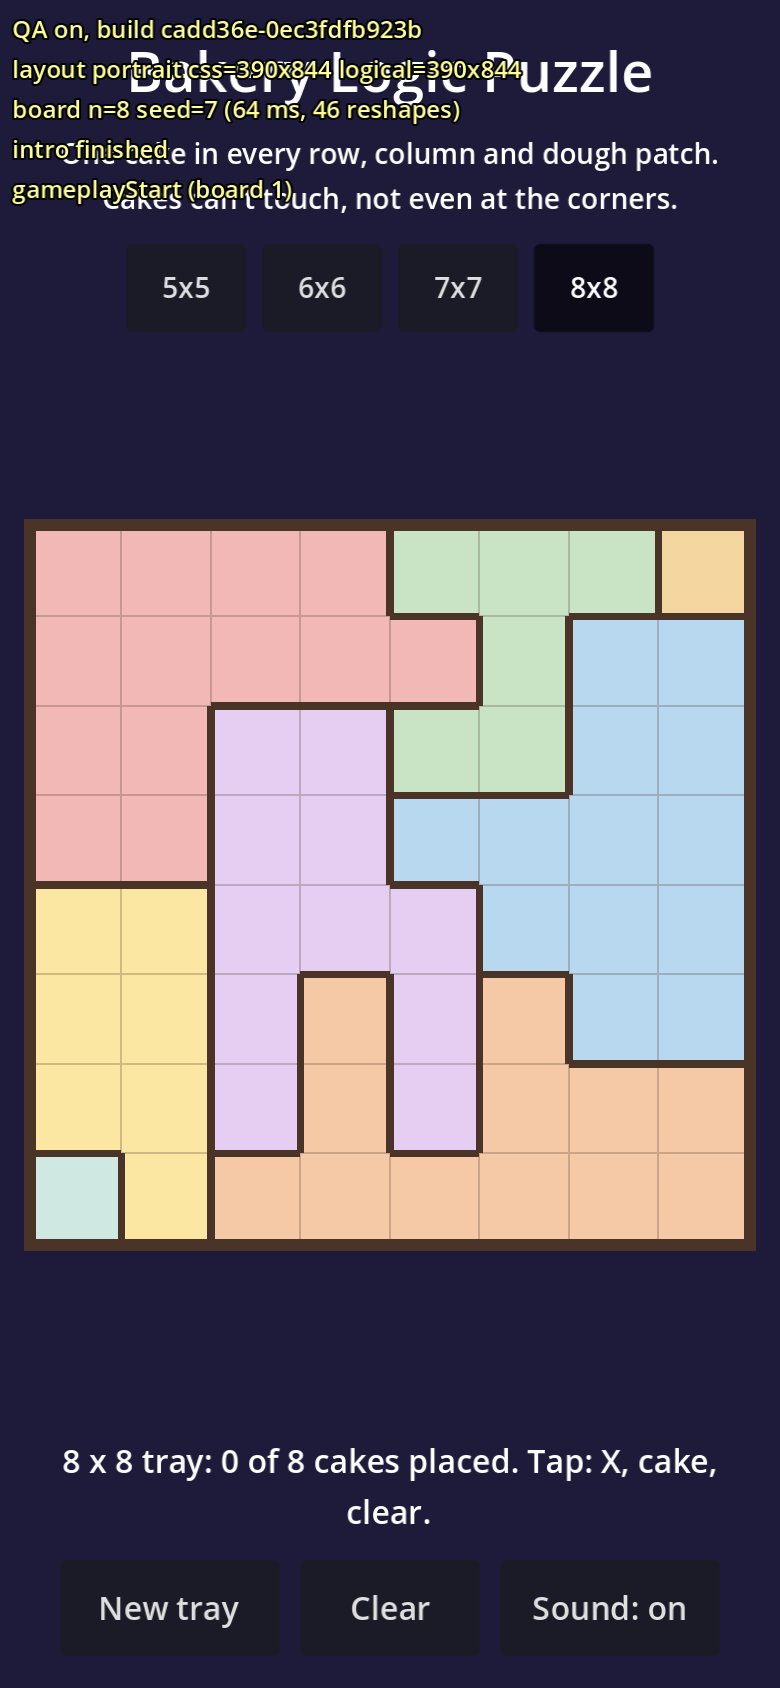
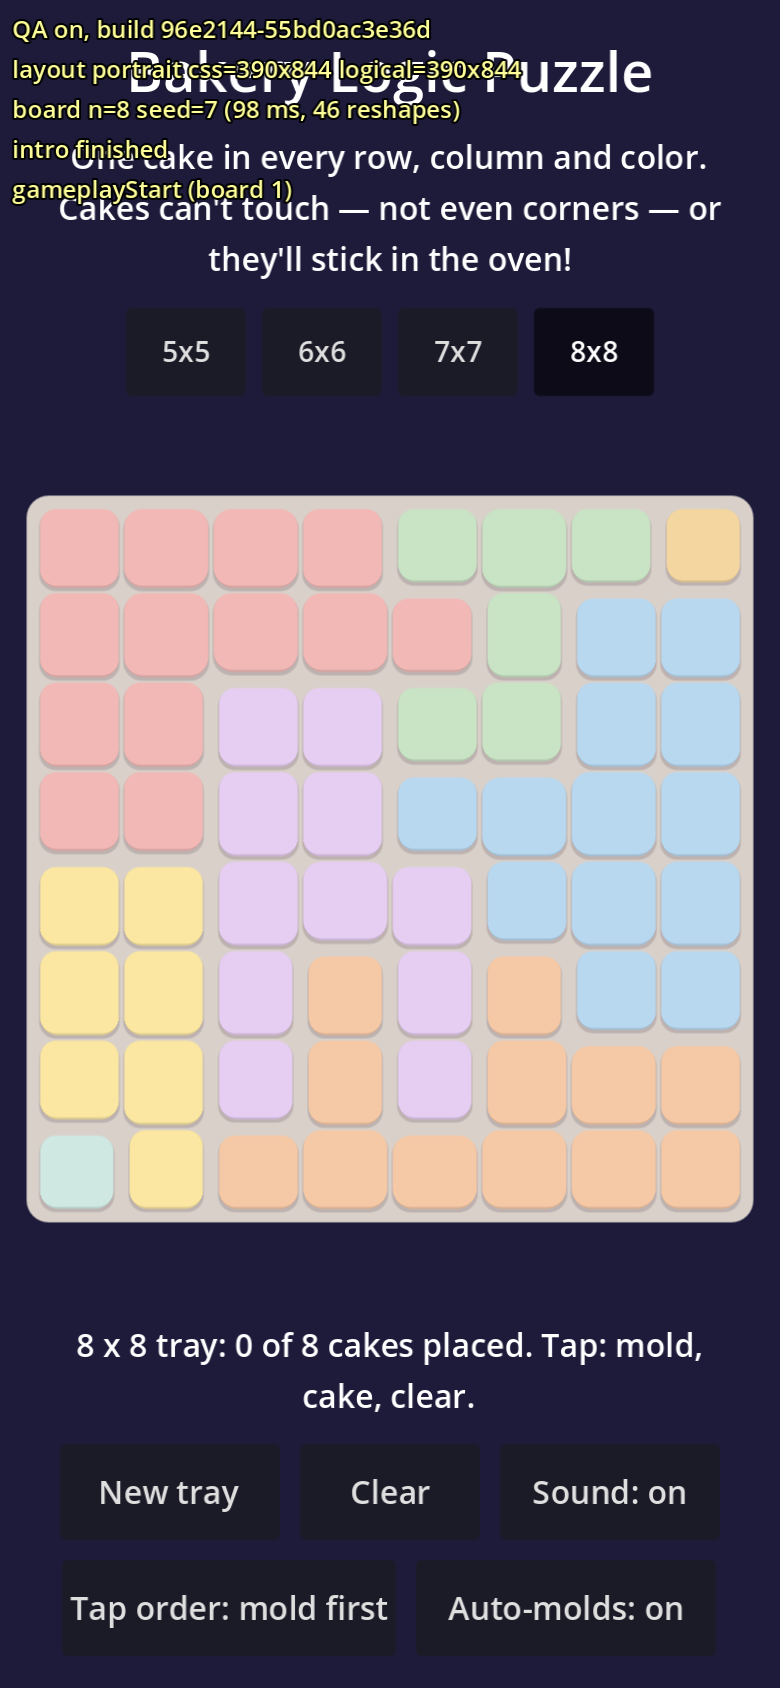
CURRENT_BUILD: Day-0 gated build for TT QA (stock template, 36.48 MB release, slim pending from Pipeline Ops; SPEC v1.0.1) + layout qa_shots from CI 96e2144

diff --git a/CURRENT_BUILD.md b/CURRENT_BUILD.md
@@ -1,21 +1,25 @@
-# CURRENT_BUILD: tea-bakery (game #4, working name; title TBD, old title dropped SM 2026-10-25)
+# CURRENT_BUILD: tea-bakery (game #4; slug in ./SLUG; user-visible title "Bakery Logic Puzzle"; old title dropped SM 2026-10-25)
 
 The single "what is current" pointer for this game. Every bot reads this before acting (Playbook v1, standing rule 5).
 SM owns the State line; `ci/run.sh` fills in "Last CI"; QA fills in Verdict; PO fills in Portal. Times are Asia/Jerusalem.
 
 ## State
-**State:** active · Stage: 2 Day-0 skeleton (local only; no repo, no Pages yet; QA not run) · Updated: 2026-10-25 08:45, TT Godot Build
+**State:** active · Stage: 2 Day-0 skeleton, **gated local build frozen for TT QA** (local only; no repo, no Pages, no push) · Updated: 2026-10-25 10:15, TT Godot Build
 
 ## Gated build (what QA is testing / has passed)
+This file is committed IN the frozen commit, so the commit cannot name its own sha or the export hashes (the export embeds the
+commit sha and the pck is not byte-reproducible across exports). The frozen commit is the commit that adds this section
+("CURRENT_BUILD: Day-0 gated build ..."); its sha, the pck/zip md5+sha256 and the folder are in the gate folder's FREEZE.md.
 | Field | Value |
 |---|---|
-| Commit | `<sha>` (branch `<branch>`) |
-| Gated dir | `/workspace/<game>-gated/<sha>/` (SHA256SUMS inside) |
-| Local port | `:<port>` (tools/serve_unit.sh) |
-| index.pck sha256 | `<first 16>` |
-| index.wasm size / gz | <MB> / <MB>; engine template: <stock | pkd slim> |
-| Gate packet | `qa/results/ci-<sha>/GATE_PACKET.md` |
-| QA verdict | <PENDING | PASS | FAIL: reason>, <date>, QA |
+| Commit | the commit adding this section, on top of 96e2144 (+ cbad78e metrics), branch `main` |
+| Gate folder | `/workspace/tea-and-tarts-gates/day0-<sha>/` (read-only): `<sha>/` = frozen Web Release + SHA256SUMS, `web-debug/` (same export run), `tea-bakery-cg-<sha>.zip` (+ .md5/.sha256), `GATE_PACKET.md`, `CHANGELOG_since_b4caec2.md`, `FREEZE.md` |
+| Built from | a clean `git clone` checked out at that commit (`ci/run.sh --gate`, slug from ./SLUG = tea-bakery) |
+| index.pck sha256 | in `<sha>/SHA256SUMS`, `FREEZE.md` and `GATE_PACKET.md` (sha256 authoritative, md5 cross-check) |
+| Release size | **36.48 MB** raw (index.wasm 35.38 MB, gz 8.00 MB; index.pck 0.71 MB) vs 20 MB budget: OVER |
+| Engine template | **stock** Godot 4.3 web template. PKD slim template: **pending from Pipeline Ops** (they own it; no slim build here) |
+| SPEC | v1.0.1 (git 99e0b39): mold terminology, tap order + cake-first setting, no-op analytics, TT-AC-53 zero game network calls, ads 300 s floor + 180 s gap |
+| QA verdict | PENDING, 2026-10-25, QA (`/workspace/tea-and-tarts-qa/run_day0.sh`, see FREEZE.md for the invocation) |
 
 ## Live
 | Field | Value |
@@ -36,9 +40,10 @@ SM owns the State line; `ci/run.sh` fills in "Last CI"; QA fills in Verdict; PO 
 - 2026-10-25: working name tea-bakery; no old-title string in source or built output (CI step 7 = QA NAME-01 scanner).
 - 2026-10-25: SPEC v0.2 canonical; mobile max 8x8 (44 px), 9x9 desktop only.
 - 2026-10-25: responsive layout: wide mode (aspect > 1.0) board left / panel right, 1 logical unit >= 1 CSS px (CI step 6b).
-- BLOCKER: release ~36 MB (stock template, wasm ~35 MB) vs 20 MB target; Pipeline Ops slim template build OOM'd (engine/build_slim.log), pending.
+- 2026-10-25: SPEC v1.0.1 locked (99e0b39); config/name "Bakery Logic Puzzle"; slug tea-bakery only in ./SLUG.
+- BLOCKER (size): release 36.48 MB (stock template, wasm 35.38 MB) vs 20 MB target; slim template owned by Pipeline Ops, pending.
 
 ## Last CI (auto)
 <!-- ci:begin -->
-2026-10-25 08:20: CI **PASS** on `f0fef91` · release 36.20 MB (wasm 35.38 MB) · packet `qa/results/ci-f0fef91/GATE_PACKET.md` · gated /workspace/pkd-starter-gated/f0fef91
+2026-10-25 10:02: CI **PASS** on `96e2144` · release 36.48 MB (wasm 35.38 MB) · packet `qa/results/ci-96e2144/GATE_PACKET.md`
 <!-- ci:end -->
